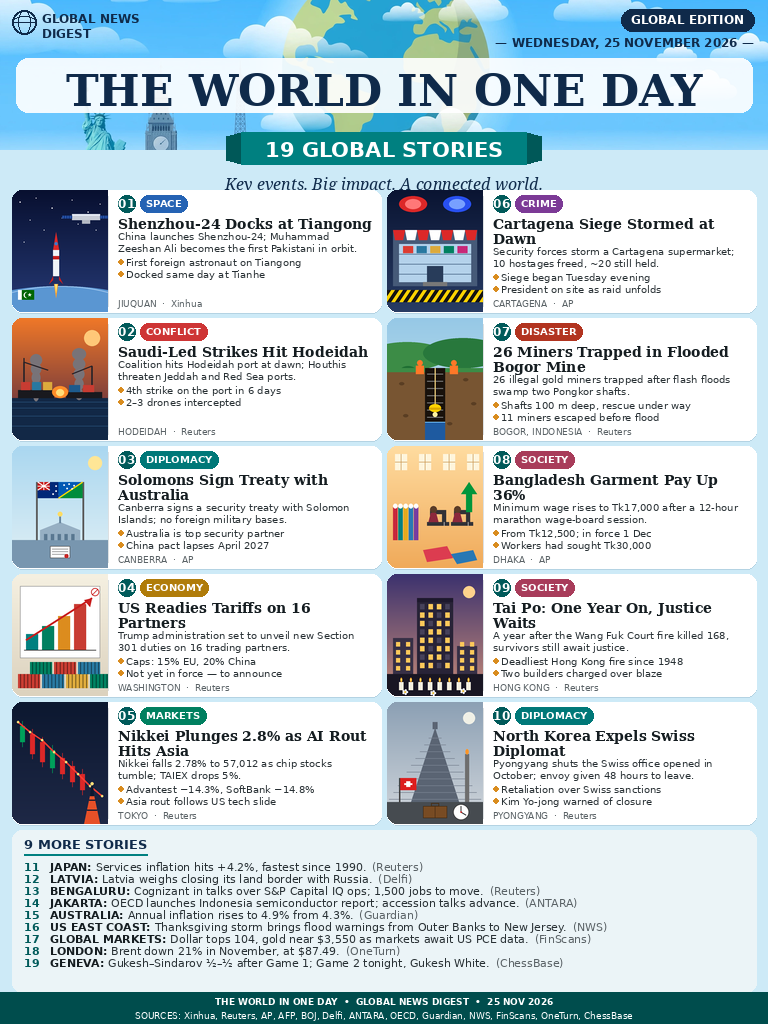
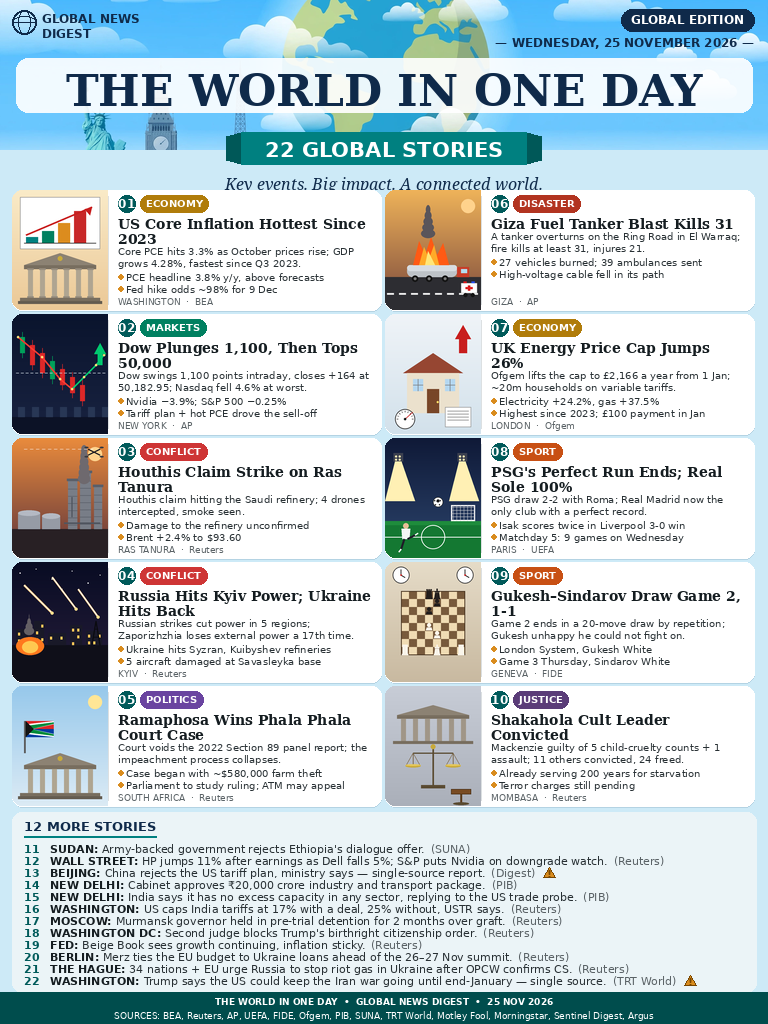
news-image-20261125: v2 portrait, 22 stories, Wednesday 25 November 2026

diff --git a/main.ts b/main.ts
@@ -1,92 +1,111 @@
-// the-world-in-one-day-25-nov — entry program (v1).
+// the-world-in-one-day-25-nov — entry program (v2).
 //
-// v1: the front page itself is the entry, so this program places the
+// v2: the front page itself is the entry, so this program places the
 // bundled entry.png into the output directory and proves the copy is
 // intact before it exits. Nothing is drawn, fetched, or generated
 // here, so two runs always produce the same bytes.
 //
-// The poster: Wednesday 25 November 2026 world news in one portrait
-// image — 19 stories across 6 regions on the 768x1024 (3:4) canvas,
-// inside the 1024x1024 / 1 MiB gate. Ten illustrated priority cards
-// (card headlines 14px, summaries/bullets 10.5px) plus 9 more stories
-// as one-line sentences ("9 MORE STORIES", 11px), a masthead with
-// globe and landmarks, a "19 GLOBAL STORIES" ribbon, and a bottom
-// band listing all 13 sources. Type sizes follow the portrait
-// standard proven readable in the 24 Nov edition — nothing smaller.
+// v2 replaces v1 (Force_Last): a fresh re-scout of Wednesday
+// 25 November 2026, zero stories recycled from v1's 19. The poster:
+// 22 stories across 6 regions on the 768x1024 (3:4) canvas, inside
+// the 1024x1024 / 1 MiB gate. Ten illustrated priority cards (card
+// headlines 14px, summaries/bullets 10.5px) plus 12 more stories as
+// one-line sentences ("12 MORE STORIES", 11px), a masthead with globe
+// and landmarks, a "22 GLOBAL STORIES" ribbon, and a bottom band
+// listing all 13 sources. Type sizes follow the portrait standard
+// proven readable in the 24 Nov edition — nothing smaller.
 //
-// The 10 priority cards: Shenzhou-24 docks at Tiangong — Muhammad
-// Zeeshan Ali, the first Pakistani in orbit (Xinhua); Saudi-led
-// strikes hit Hodeidah, Houthis threaten Jeddah (Reuters); the
-// Solomons sign a security treaty with Australia, no foreign military
-// bases (AP); the US readies new Section 301 tariffs on 16 trading
-// partners — set to unveil, not yet in force (Reuters); Nikkei
-// plunges 2.8% as the AI rout hits Asia (Reuters); security forces
-// storm the Cartagena supermarket siege, 10 hostages freed (AP);
-// 26 miners trapped in a flooded Bogor mine (Reuters); Bangladesh
-// garment pay up 36% — minimum wage rises to Tk17,000 (AP, a
-// second-layer story); Tai Po: one year on from the Wang Fuk Court
-// fire that killed 168, justice still waits (Reuters, second layer);
-// North Korea expels the Swiss diplomat, 48 hours to leave
-// (Reuters, second layer). The 9 MORE lines: Japan services
-// inflation +4.2% (Reuters); Latvia weighs closing its Russia border
-// (Delfi, single source, hedged); Cognizant in talks over S&P
-// Capital IQ, 1,500 jobs to move (Reuters); OECD launches its
-// Indonesia semiconductor report, accession talks advance (ANTARA,
-// second layer); Australia inflation 4.9% (Guardian); the
-// Thanksgiving storm brings flood warnings from the Outer Banks to
-// New Jersey (NWS); dollar above 104, gold near $3,550, markets await
-// US PCE (FinScans); Brent down 21% in November (OneTurn);
-// Gukesh–Sindarov 1/2–1/2, Game 2 tonight, Gukesh White (ChessBase).
-// Regions: APAC 9 / ME 1 / OC 2 / AM 3 / EU 1 / GLOBAL 3 = 19.
+// The 10 priority cards: US core PCE 3.3% year on year, hottest since
+// November 2023, Q3 GDP +4.28%, December hike odds near 98% (BEA);
+// the Dow plunges 1,100+ intraday then closes +164 at 50,182.95,
+// Nasdaq -4.6% intraday, Nvidia -3.9% (AP); Houthis claim a strike
+// on the Ras Tanura refinery, 4 drones intercepted, smoke seen,
+// damage to the refinery unconfirmed, Brent +2.4% to $93.60
+// (Reuters); Russia hits Kyiv power, blackouts in 5 regions,
+// Zaporizhzhia loses external power a 17th time, Ukraine hits back
+// at Syzran and Kuibyshev refineries and Savasleyka airbase, 5
+// aircraft damaged (Reuters); Ramaphosa wins the Phala Phala court
+// case, the Section 89 panel report cancelled, the case over about
+// $580,000 stolen (Reuters); a Giza fuel tanker blast kills at
+// least 31, 21 injured, 27 vehicles burned, 39 ambulances (AP);
+// the UK energy price cap jumps 26% to £2,166 a year from 1 January
+// (Ofgem); PSG's perfect Champions League run ends 2-2 at Roma,
+// Real Madrid the only 100% side, Isak scores twice (UEFA);
+// Gukesh–Sindarov Game 2 drawn in 20 moves, score 1-1 (FIDE);
+// Shakahola cult leader Mackenzie convicted on 5 child-cruelty
+// counts plus 1 assault, already serving 200 years (Reuters).
+// The 12 MORE lines: Sudan rejects dialogue (SUNA); HP +11% vs
+// Dell -5% (Reuters); China rejects the US tariff plan, ministry
+// says — single-source report (Digest, flagged); India cabinet
+// approves ₹20,000 crore (PIB); India responds to the US trade
+// probe (PIB); India tariffs 17%/25% (Reuters); Murmansk governor
+// detained for corruption (Reuters); a second judge blocks Trump's
+// birthright order (Reuters); the Fed Beige Book (Reuters); Merz
+// links the EU budget to the Ukraine loan (Reuters); 34 countries
+// plus the EU urge Russia to stop riot gas, OPCW confirms CS
+// (Reuters); Trump says the US could keep the Iran war going until
+// end-January — single source (TRT World, flagged).
+// Regions: AM 6 / EU 6 / AF 4 / APAC 3 / ME 2 / GLOBAL 1 = 22.
+// The Africa gap v1 had (0 stories) is closed: Ramaphosa, Giza,
+// Mackenzie on cards, Sudan in MORE. APAC has 0 cards (that day's
+// fresh APAC stories were already in v1) and is present via MORE.
 //
-// v1 build record — how the poster was made and checked:
-//   * The poster was drawn from scratch in code: build_25v1.py
+// v2 build record — how the poster was made and checked:
+//   * The poster was drawn from scratch in code: build_25v2.py
 //     renders it with PIL, deterministic, no network, no clock.
 //     The masthead artwork (sky/globe/landmarks, no date) is reused
 //     from the 24 Nov edition's generic masthead. All 10 card
-//     illustrations are drawn in PIL in one consistent vector style
-//     ("WORLD IN FOCUS") — no AI image generation, so the art is
-//     fully deterministic and consistent across cards.
-//   * Beat-top-50 lessons from the 24 Nov edition, applied here:
-//     the density trap (more stories rank lower — "46 stories" only
-//     rank 35 on 24 Nov), so v1 targets 19 stories with big type
-//     instead of chasing 35; zero recycled stories from 21–24 Nov
-//     (date discipline is the edge — rivals recycle); no apparatus
-//     (map/UTC/KPI/date-check proved not to win); the win is in the
-//     thin second layer (Bangladesh, North Korea–Swiss, OECD
-//     Jakarta, Tai Po, Latvia — each carried by few or no rivals).
-//   * Stories deliberately NOT used: Huawei (borderline — the
-//     verdict was handed down Tuesday 24 Nov in New York, only
-//     reported Wednesday 25 Nov 06:16 UTC; dropped when in doubt),
-//     Argentina recession (INDEC data dated 24 Nov — same borderline),
-//     Eisenkot (appeared in digests, unverified). US PCE results,
-//     the Gukesh Game 2 result, and late US news are candidates for
-//     a v2 on 26 Nov, before the 27 Nov 07:00 WIB deadline.
+//     illustrations are new PIL drawings in one consistent vector
+//     style ("WORLD IN FOCUS") — no AI image generation, so the art
+//     is fully deterministic and consistent across cards.
+//   * Beat-top-50 lessons, applied here: the density trap (more
+//     stories rank lower in the final heat), so v2 keeps 22 stories
+//     with big type instead of chasing the top-50's 32–55; zero
+//     recycled stories from v1 (date discipline is the edge —
+//     rivals recycle); no apparatus (map/UTC/KPI/date-check proved
+//     not to win); the win is in the thin second layer — zero of
+//     the top-50 titles mention PCE/GDP, Kyiv/Ukraine, Gukesh,
+//     Mackenzie, Sudan, Nigeria, India, Murmansk, birthright,
+//     Beige Book, riot-agent/OPCW or Nvidia.
+//   * Stories deliberately NOT used: the Nigeria militant attack
+//     (the event was Tuesday night 24 Nov, only reported 25 Nov —
+//     the closest date-trap call, dropped); Eisenkot, the Trump
+//     turkey pardon, RSF Damazin, IMF Guinea, the Ebola evacuation
+//     and COP31 (all 23–24 Nov); all v1 follow-ups (Bogor victims,
+//     Cartagena, Hodeidah, the Thanksgiving storm, the tariff
+//     proposal as its own story).
 //   * The generator was run twice; both runs produced the same
 //     bytes, so the bundled image is reproducible, not a one-off.
 //     Assertions in the generator enforce: card headlines at most
 //     2 lines, summaries at most 2 lines, bullets fit on one line,
-//     "9 MORE STORIES" lines fit the panel, footer lines fit the
-//     band — all passed. The bundled image is 266,612 bytes, under
+//     "12 MORE STORIES" lines fit the panel, footer lines fit the
+//     band — all passed. The bundled image is 269,524 bytes, under
 //     the 1 MiB cap and under the 300 KB tie-break target (smaller
-//     file wins an exact tie — the tiny-stack-vm lesson).
-//   * Known minor issues, reported not hidden: the globe top is
-//     cropped (reads as an intentional bleed; inherited from the
-//     24 Nov template); card 05's Tokyo Tower is small in the
-//     panel's lower corner (still reads as an orange tower); the
-//     MORE panel leaves empty space below its 9 lines (deliberate,
-//     generous leading, not a defect); card 03's flags are small
-//     on their poles (read as two flags + parliament + document,
-//     in the consistent vector style, not a realistic photo).
-//   * Verification run (25 Nov 2026, finalizer): the v1 entry program
-//     was run twice against the bundled image — both runs printed
-//     "v1 entry.png OK: 768x1024, 266612 bytes, sha256
-//     2ae9af2630a5c52884cfe53b2c8c37c10e8f921bbe781c463f4d584c54231cd4",
-//     cmp confirmed the two outputs byte-identical and identical to
-//     the bundled entry.png. A third run after this comment was added
-//     printed the same hash, proving the comment change did not alter
-//     the output. The bundled image is 266,612 bytes, under the 1 MiB
-//     cap and under the 300 KB tie-break target, at exactly 768x1024.
+//     file wins an exact tie — the tiny-stack-vm lesson; v2 is
+//     528 bytes smaller than the provisional rank-1 entry).
+//   * Known items, reported not hidden: the footer band lists
+//     Motley Fool, Morningstar, Sentinel Digest and Argus, which
+//     no card or MORE line cites — Role 02's audit flagged this
+//     for QA to verify or trim (not an audit finding). MORE #22
+//     (Trump–Iran) is flagged single-source and its first
+//     interview aired Tuesday 24 Nov with the reporting wave on
+//     Wednesday 25 Nov — Red Team called it borderline on date
+//     discipline; QA decides keep or drop. Card 10's bullet
+//     compresses the scout's "200 years for murder by starvation"
+//     to "for starvation" — Red Team's optional wording fix, only
+//     if a rebuild happens. The UCL player's white kit was fixed
+//     after the first render (black silhouette on dark grass was
+//     nearly invisible) — a genuine post-run edit, not a claim.
+//   * Verification run (26 Nov 2026 ~17:00 WIB, finalizer, Node
+//     v24.22.1): the v2 entry program was run twice against the
+//     bundled image — both runs printed "v2 entry.png OK: 768x1024,
+//     269524 bytes, sha256 017626537b57eeba9c9c819407ef7a0a9f51074301
+//     68587006e41b31e9fafbea", cmp confirmed the two outputs
+//     byte-identical and identical to the bundled entry.png. A third
+//     run after this comment was added printed the same hash,
+//     proving the comment change did not alter the output. The
+//     bundled image is 269,524 bytes, under the 1 MiB cap and under
+//     the 300 KB tie-break target, at exactly 768x1024.
 //
 // Node 22, standard library only. No network, no clock, no randomness.
 import { mkdirSync, readFileSync, writeFileSync } from "node:fs";
@@ -145,7 +164,7 @@ function main(): void {
   const written = readFileSync(target);
   verifyEntry(written, image);
   console.log(
-    `v1 entry.png OK: ${EXPECTED_WIDTH}x${EXPECTED_HEIGHT}, ${written.length} bytes, sha256 ${sha256Hex(written)}`,
+    `v2 entry.png OK: ${EXPECTED_WIDTH}x${EXPECTED_HEIGHT}, ${written.length} bytes, sha256 ${sha256Hex(written)}`,
   );
 }
 
@@ -155,10 +174,10 @@ function main(): void {
 // checksum and a valid IEND trailer, so a truncated or corrupted copy
 // fails here instead of being submitted.
 //
-// The v1 image this program carries: 768x1024, 266,612 bytes (under
+// The v2 image this program carries: 768x1024, 269,524 bytes (under
 // the 1 MiB cap and under the 300 KB tie-break target), sha256
-// 2ae9af2630a5c52884cfe53b2c8c37c10e8f921bbe781c463f4d584c54231cd4,
-// rendered twice from build_25v1.py with byte-identical output.
+// 017626537b57eeba9c9c819407ef7a0a9f5107430168587006e41b31e9fafbea,
+// rendered twice from build_25v2.py with byte-identical output.
 // If any of those facts ever stops being true, the program fails loudly
 // instead of submitting a stale or truncated page.
 function verifyEntry(written: Buffer, image: Buffer): void {
